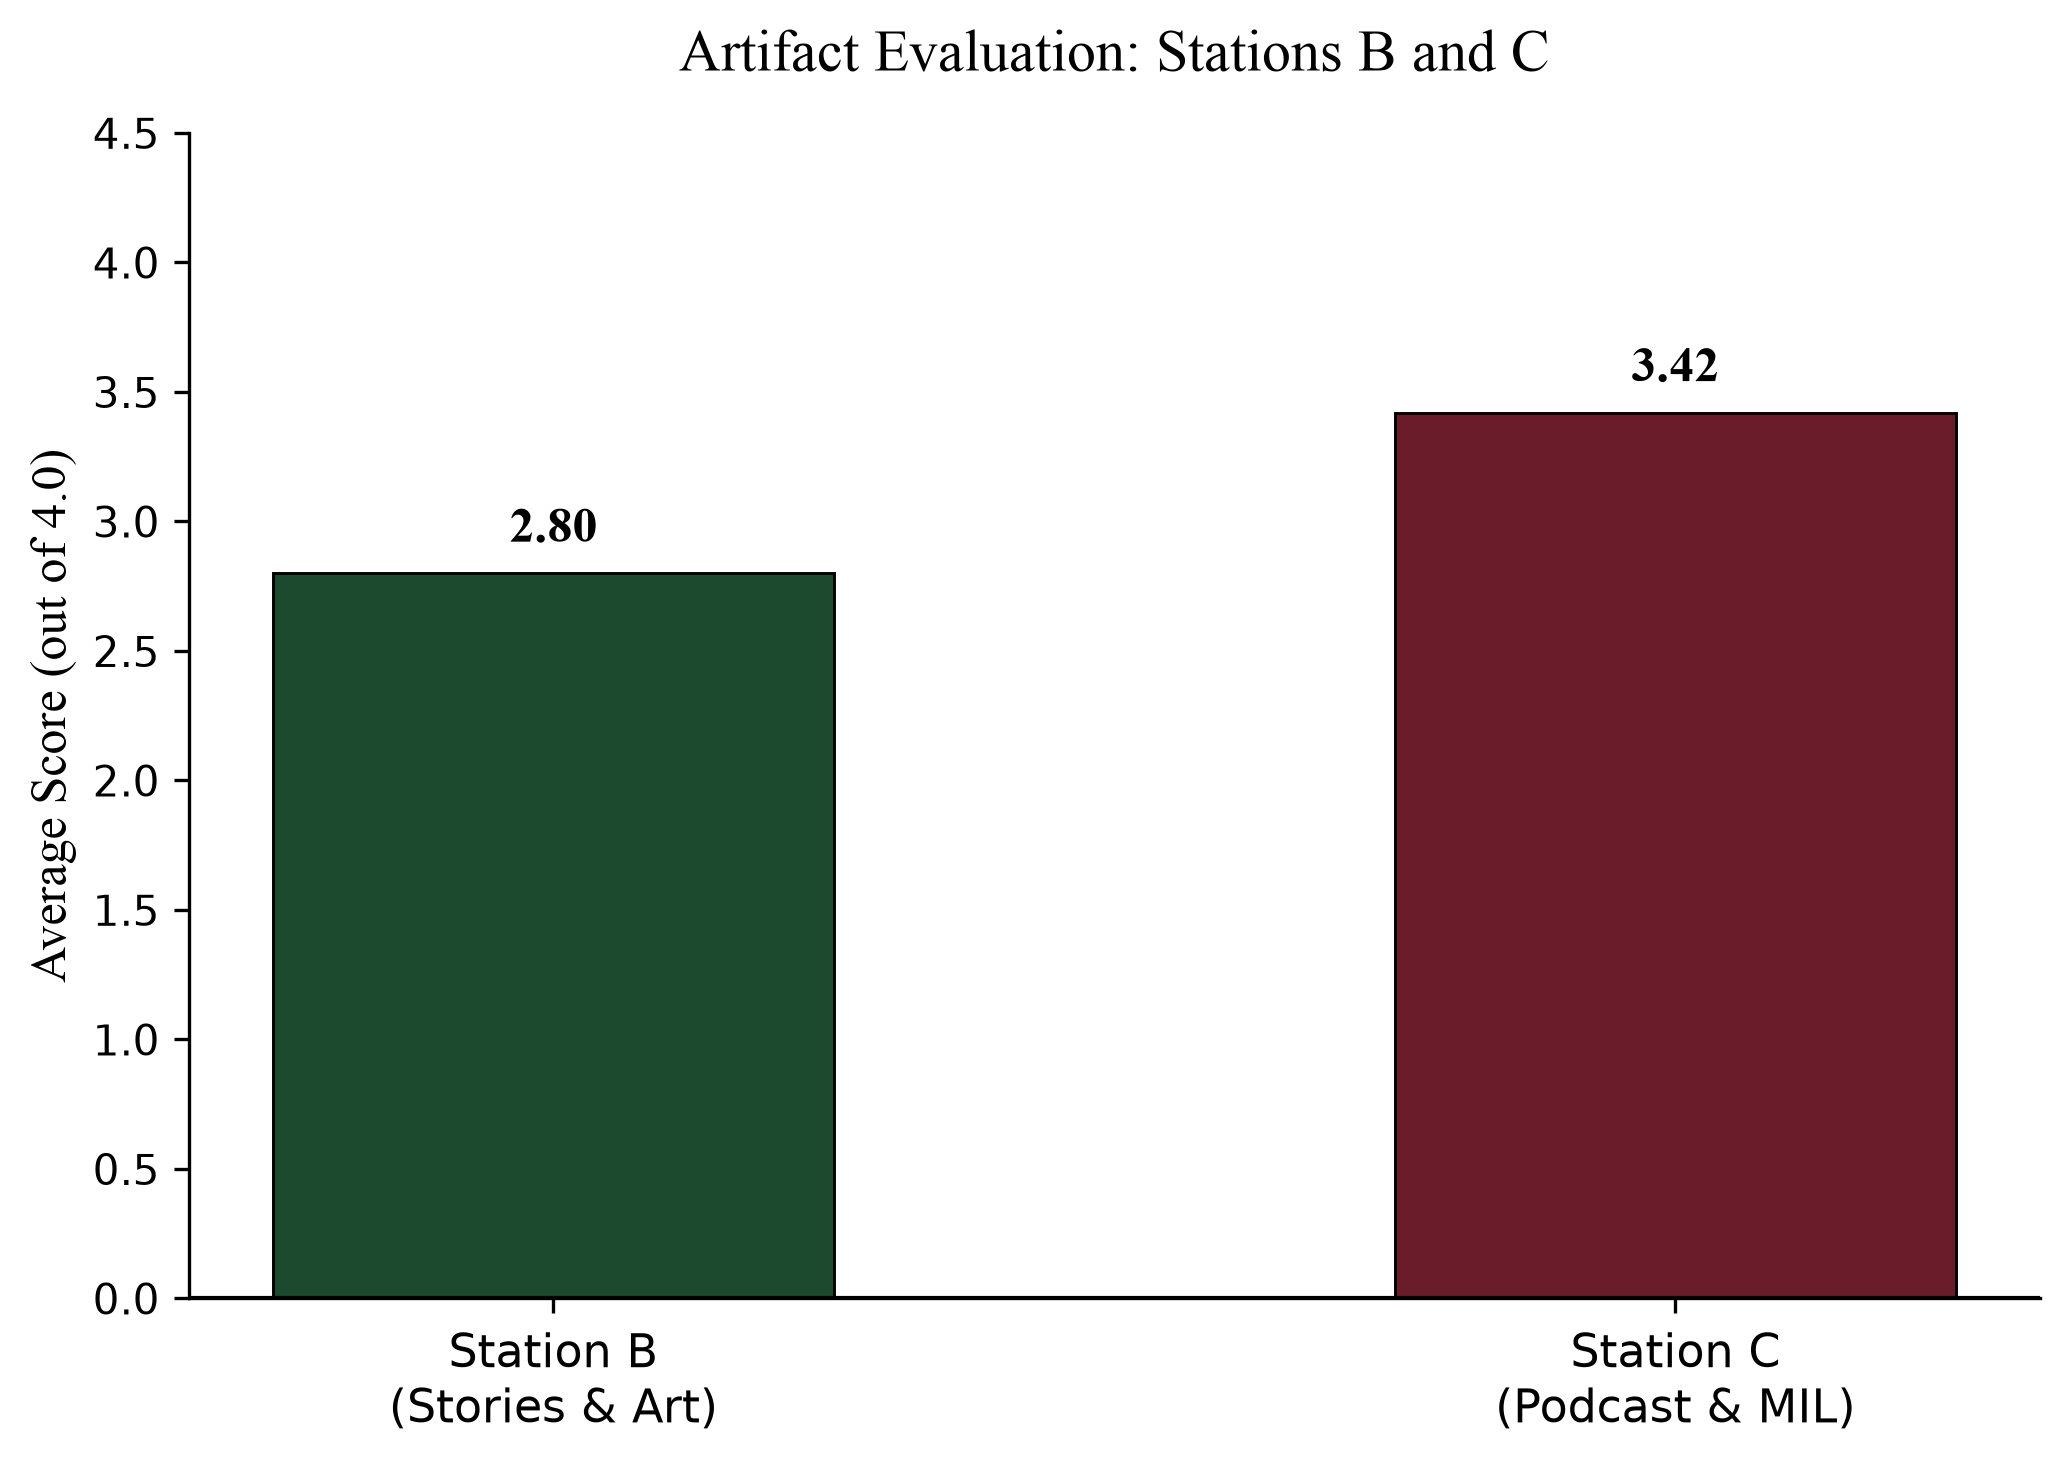
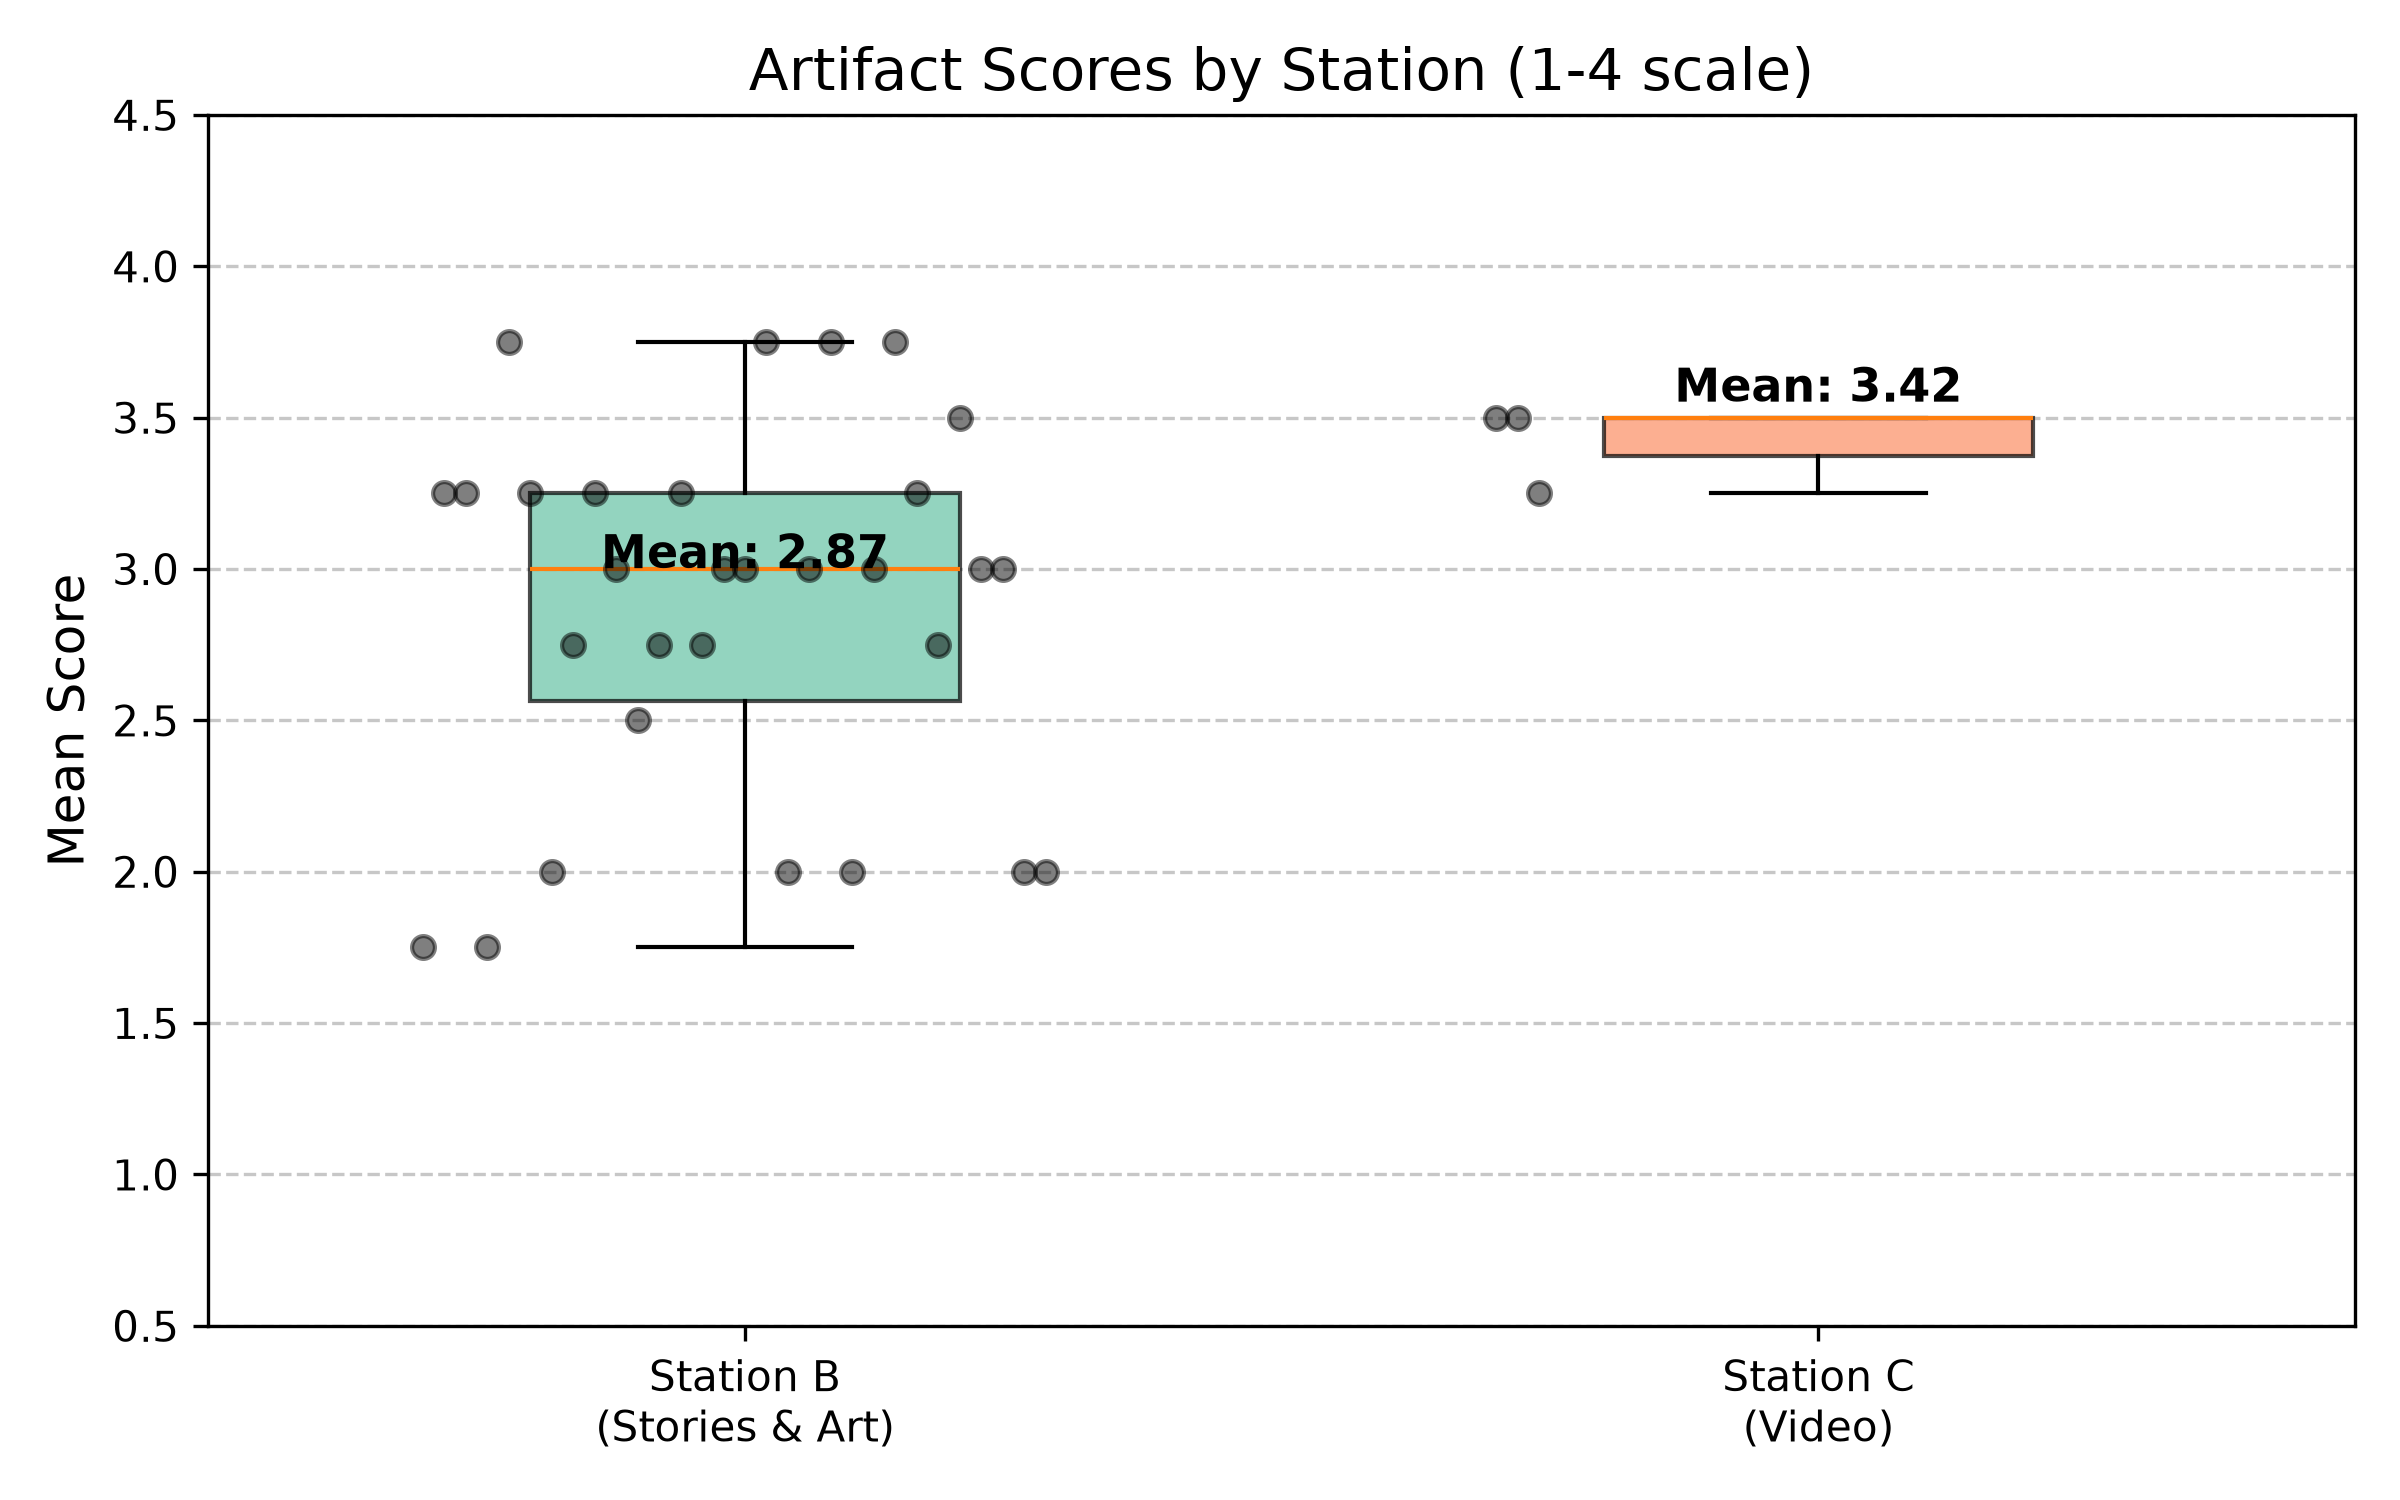
Fix rubric calculations (N=30, mean=2.87 for Station B; N=3, mean=3.42 for Station C); add verified CSV and reproducible figure script

diff --git a/02_scripts/figura_rubricas.py b/02_scripts/figura_rubricas.py
@@ -1,0 +1,44 @@
+import pandas as pd
+import matplotlib.pyplot as plt
+import os
+
+# Cargar datos verificados
+df = pd.read_csv("01_data/processed/Rubric_Results_VERIFIED.csv")
+
+# Configurar estilo básico
+plt.figure(figsize=(8, 5))
+
+# Separar datos por estación
+b_scores = df[df['Station'] == 'B']['Mean_Score']
+c_scores = df[df['Station'] == 'C']['Mean_Score']
+
+# Crear boxplot
+bp = plt.boxplot([b_scores, c_scores], tick_labels=['Station B\n(Stories & Art)', 'Station C\n(Video)'],                 
+patch_artist=True, widths=0.4)
+
+# Colores para las cajas
+colors = ['#66c2a5', '#fc8d62']
+for patch, color in zip(bp['boxes'], colors):
+    patch.set_facecolor(color)
+    patch.set_alpha(0.7)
+
+# Añadir los puntos individuales (jitter)
+for i, scores in enumerate([b_scores, c_scores], start=1):
+    # Jitter simple para que no se superpongan los puntos
+    x_jitter = [i + (j * 0.02 - 0.3) for j in range(len(scores))] 
+    plt.scatter(x_jitter, scores, color='black', alpha=0.5, s=30, zorder=3)
+
+# Añadir los promedios como texto
+means = [b_scores.mean(), c_scores.mean()]
+for i, mean_val in enumerate(means, start=1):
+    plt.text(i, mean_val + 0.1, f"Mean: {mean_val:.2f}", ha='center', va='bottom', fontweight='bold', fontsize=11)
+
+plt.title("Artifact Scores by Station (1-4 scale)", fontsize=14)
+plt.ylabel("Mean Score", fontsize=12)
+plt.ylim(0.5, 4.5)
+plt.grid(axis='y', linestyle='--', alpha=0.7)
+
+os.makedirs("04_output/figures", exist_ok=True)
+plt.tight_layout()
+plt.savefig("04_output/figures/Figure_Rubrics_B_C.png", dpi=300)
+print("Guardado: 04_output/figures/Figure_Rubrics_B_C.png")

diff --git a/02_scripts/verificacion_rubricas.py b/02_scripts/verificacion_rubricas.py
@@ -1,0 +1,28 @@
+import pandas as pd
+
+df = pd.read_csv("01_data/processed/Rubric_Results_Sariri.csv")
+
+# Calcular el promedio real (suma de criterios / 4)
+df['Calculated_Mean'] = df[['Criterion_1', 'Criterion_2', 'Criterion_3', 'Criterion_4']].mean(axis=1)
+
+# Detectar filas donde la columna manual del Word difiere del cálculo real (margen de 0.01 por redondeo)
+df['Difference'] = abs(df['Mean_Score'] - df['Calculated_Mean'])
+errors = df[df['Difference'] > 0.01]
+
+print("=== ERRORES DE CÁLCULO EN EL DOCUMENTO DE WORD ===")
+if len(errors) > 0:
+    print(errors[['Station', 'Code_or_ID', 'Criterion_1', 'Criterion_2', 'Criterion_3', 'Criterion_4', 'Mean_Score', 'Calculated_Mean']].to_string(index=False))
+else:
+    print("No se encontraron errores.")
+
+print("\n=== PROMEDIOS REALES (calculados desde criterios) ===")
+for station in ['B', 'C']:
+    sub = df[df['Station'] == station]
+    mean_real = sub['Calculated_Mean'].mean()
+    print(f"Estación {station}: N = {len(sub)}, Promedio = {mean_real:.4f}")
+
+# Guardar el CSV limpio (con la columna calculada en lugar de la manual)
+df_clean = df.drop(columns=['Mean_Score', 'Difference']).rename(columns={'Calculated_Mean': 'Mean_Score'})
+df_clean['Mean_Score'] = df_clean['Mean_Score'].round(2)
+df_clean.to_csv("01_data/processed/Rubric_Results_VERIFIED.csv", index=False)
+print("\nGuardado: 01_data/processed/Rubric_Results_VERIFIED.csv")
